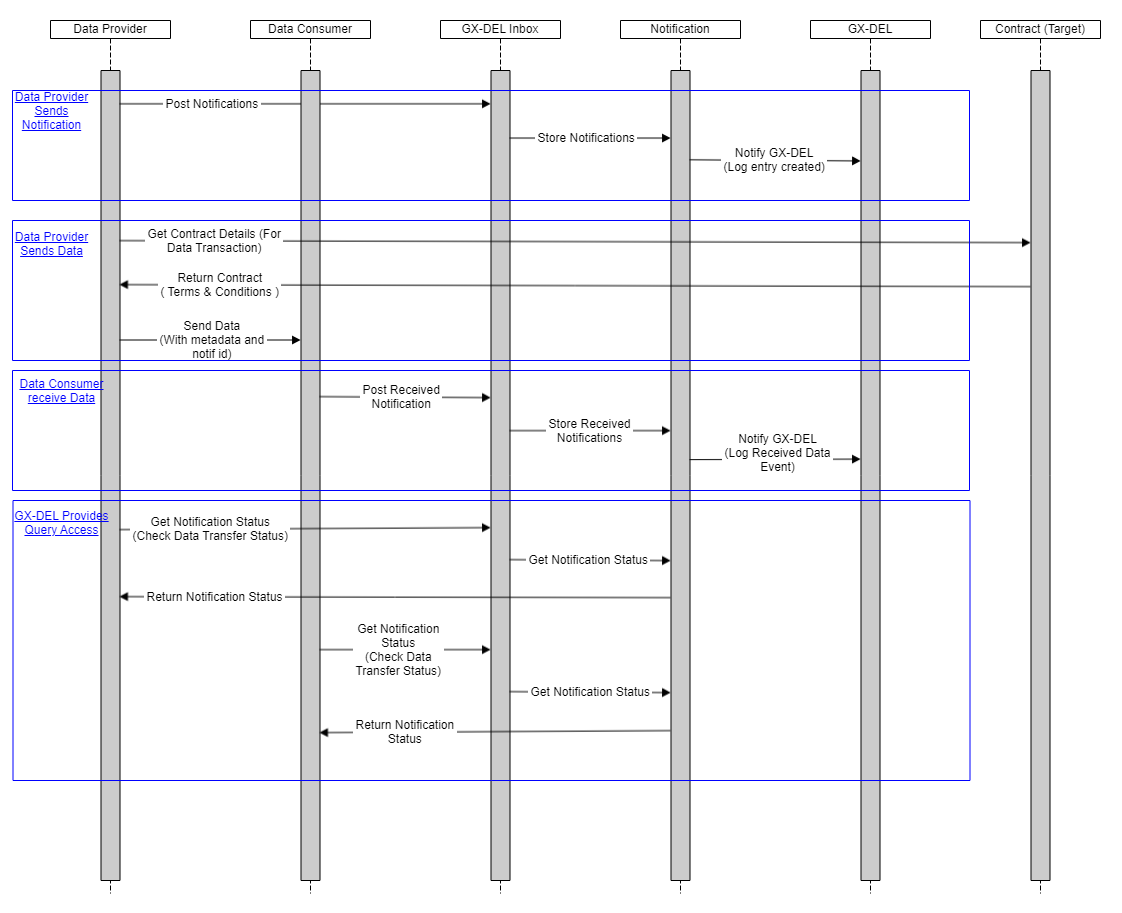
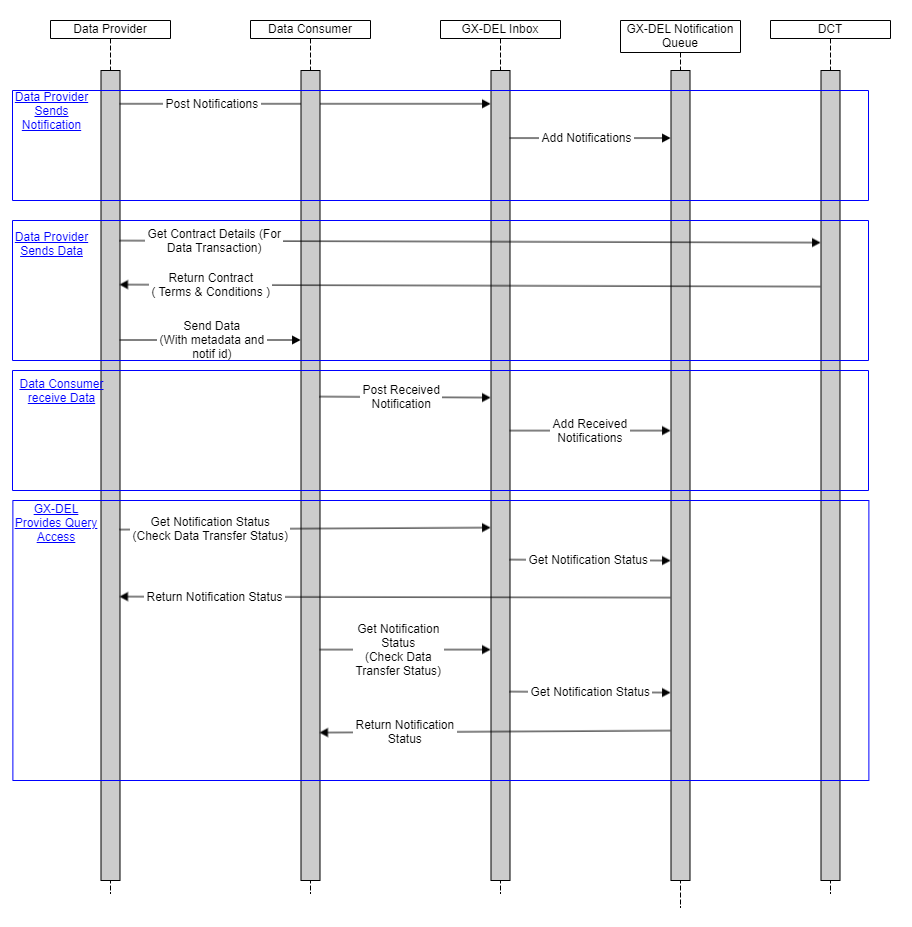
Update docs

Changed region(s): [[0.0, 0.0, 0.9825, 0.9814]]

diff --git a/del/README.md b/del/README.md
@@ -22,9 +22,9 @@ Before sending the actual data, the Data Provider first sends a notification to 
 The notification includes the contract identifier, which links the data transaction to a specific contract or agreement. </br>
 This notification is logged and assigned a unique contract identifier to link it to the specific transaction.
 
-2. Data Provider Sends the Data (GET Contract Target) </br>
+2. Data Provider Sends the Data (GET Contract DCT) </br>
 Following the notification, the Data Provider sends the actual data to the Data Consumer. </br>
-The Contract (Target) in the diagram is referenced during this exchange to ensure that the data transfer complies with the agreed terms. </br>
+The Contract (DCT) in the diagram is referenced during this exchange to ensure that the data transfer complies with the agreed terms. </br>
 The Data Consumer checks the contract details using GET/HEAD requests.
 
 3. Data Consumer Receives the Data (Post to Inbox) </br>
@@ -38,9 +38,38 @@ The GET/HEAD requests allow the involved parties to track the notifications and 
 Key Components:
 
 - Inbox: This is where all notifications related to the data transaction are logged by GX-DELS.
-- Contract (Target): The contract or agreement tied to the data transfer. Both the Data Provider and Data Consumer can reference this contract using GET/HEAD requests to ensure the transaction is compliant with the terms.
-
+- DCT: The contract or agreement tied to the data transfer. Both the Data Provider and Data Consumer can reference this contract using GET/HEAD requests to ensure the transaction is compliant with the terms.</br>
 ![Product Overview](docs/Sequence%20Diagram%20Detailed%20Interaction.png)
+
+
+### How Data Sending Works:
+1. **Does the Provider Push the Data?**
+    - One possibility is that the provider actively sends (or "pushes") the data to the consumer.
+2. **Does the Consumer Pull the Data?** (Most likely correct)
+    - A more likely scenario is that the consumer pulls the data from the provider when it is ready.
+3. **Could Both Methods Be Possible?**
+    - It's also possible that both pushing and pulling methods are used, depending on the use case.
+
+#### **If the Consumer Pulls the Data (Most Likely Scenario):**
+The main question here is: **How does the consumer know when the data is ready to pull?**
+The answer lies in a notification system.
+- Notification System:
+    - The provider sends a notification when the data is ready.
+    - The consumer listens for this notification, and as soon as it receives the notification, it pulls the data from the provider.
+
+Example Workflow (Pull with Notification):
+1. Consumer Pulls Data:
+    - The consumer periodically checks or waits for a notification from the provider.
+2. Provider Sends Notification:
+    - When the provider is ready with the data, it sends a notification to the consumer.
+3. Consumer Receives Notification:
+    - Once the notification is received, the consumer pulls the data from the provider. In this case, there's no need for the provider to receive further notifications once the data is pulled.
+
+
+
+
+
+
 
 
 The two main functions of the Gaia-X Service Instance (GX-SI) GX-DELS are:
